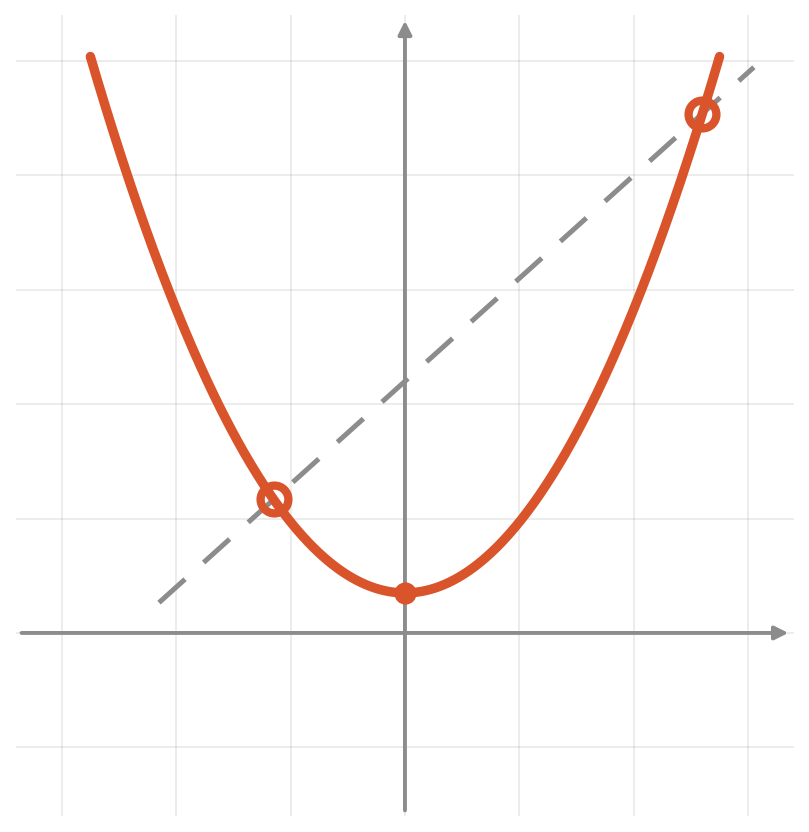
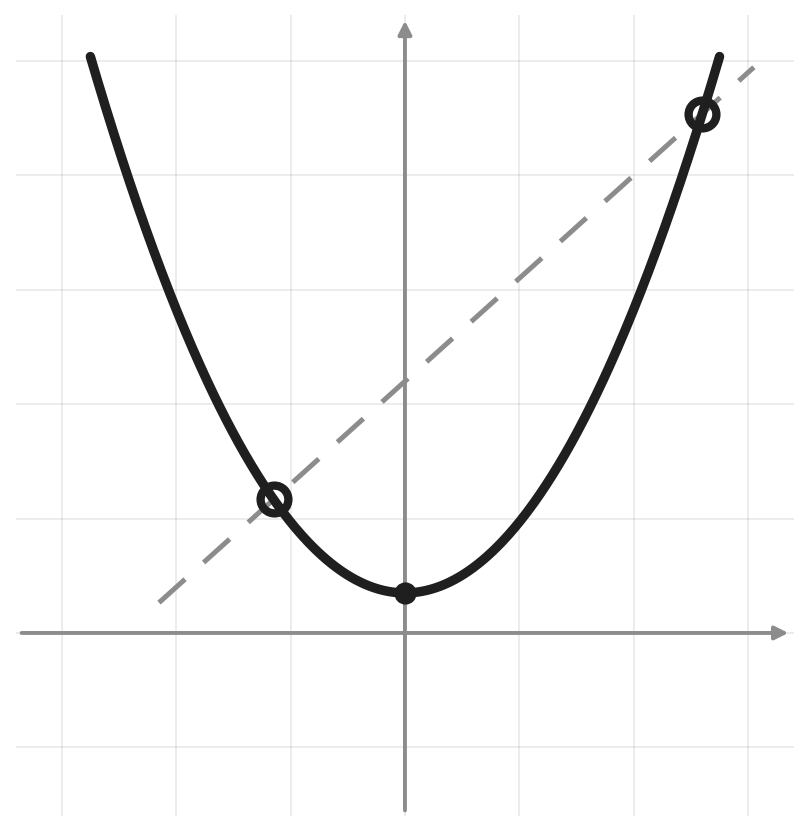
[OC] - Fixing some stuff

diff --git a/scripts/generate-og-card.py b/scripts/generate-og-card.py
@@ -17,9 +17,12 @@ Uses the site's real brand font. @fontsource ships woff/woff2 only, so the
 latin woff (zlib-compressed, unlike woff2's brotli) is converted to a TTF in a
 temp dir at run time. Nothing is written into the repo except the card itself.
 
-The composition deliberately mirrors the homepage hero: wordmark and headline
-on the left, the same parabola figure on the right, vermilion accent, sharp
-corners. A shared link should look like the page it opens.
+Colors and shadow follow DESIGN.md verbatim: single ink, zero blur, offset
+shadows never black. There is no chromatic accent anywhere on the site, so
+none is introduced here either. The composition mirrors the homepage: a
+paper-raised card (the same surface as the table of contents) on the paper
+ground, wordmark and headline on the left, the brand parabola figure on the
+right.
 """
 
 import os
@@ -34,12 +37,22 @@ OUT_DIR = os.path.join(ROOT, "public", "og")
 OUT = os.path.join(OUT_DIR, "agora-og.png")
 
 W, H = 1200, 630
-BG = (244, 244, 244)
-INK = (31, 31, 31)
-MUTED = (90, 90, 90)
-ACCENT = (194, 67, 30)
+
+# DESIGN.md light-theme tokens (see colors: in the frontmatter).
+INK = (31, 31, 31)         # ink / border / accent, all one token
+INK_MUTED = (90, 90, 90)   # ink-muted
+PAPER = (244, 244, 244)    # paper, the page ground
+PAPER_SHADE = (232, 232, 232)   # paper-shade, chips and cards
+PAPER_RAISED = (253, 253, 253)  # paper-raised, the freshest surface
+SHADOW_ALPHA = 0.32        # rgba(31,31,31,0.32), the registration shadow
 
 REQUIRED = set("ÁGORAcademiteásnCu PrimoBhlrES.")
+
+
+def blend(fg, bg, alpha):
+    """Flatten an rgba(ink, alpha) shadow onto a background, since PIL's
+    ImageDraw has no alpha compositing for plain RGB canvases."""
+    return tuple(round(f * alpha + b * (1 - alpha)) for f, b in zip(fg, bg))
 
 
 def load_font(weight: str, size: int, tmp: str) -> ImageFont.FreeTypeFont:
@@ -76,47 +89,57 @@ def main():
     bold = lambda s: load_font("700", s, tmp)
     regular = lambda s: load_font("400", s, tmp)
 
-    card = Image.new("RGB", (W, H), BG)
+    card = Image.new("RGB", (W, H), PAPER)
     d = ImageDraw.Draw(card)
 
-    # Brand signature: the level-tag's vermilion left edge, at card scale.
-    d.rectangle([0, 0, 15, H], fill=ACCENT)
+    # ── Card surface: the same paper-raised + offset-heavy shadow used by
+    # the table of contents, so the social preview reads as a piece of the
+    # actual site rather than a bare background. Offset shadow doubled from
+    # the site's 5px token since this canvas renders at roughly 2x scale.
+    margin, offset, border = 18, 10, 4
+    x0, y0, x1, y1 = margin, margin, W - margin, H - margin
+    d.rectangle([x0 + offset, y0 + offset, x1 + offset, y1 + offset],
+                fill=blend(INK, PAPER, SHADOW_ALPHA))
+    d.rectangle([x0, y0, x1, y1], fill=PAPER_RAISED, outline=INK, width=border)
 
     # ── Figure, right side ────────────────────────────────────────────────
     fig = Image.open(FIGURE).convert("RGBA")
-    fig_h = 384
+    fig_h = 360
     fig_w = round(fig.width * fig_h / fig.height)
     fig = fig.resize((fig_w, fig_h), Image.LANCZOS)
-    fig_x = W - 64 - fig_w
+    fig_x = x1 - 56 - fig_w
     card.paste(fig, (fig_x, (H - fig_h) // 2), fig)
 
-    x = 92
+    x = x0 + 74
     # ── Wordmark ──────────────────────────────────────────────────────────
     f_mark = bold(76)
     mark, track = "ÁGORA", 10
-    y = 132
+    y = 122
     draw_tracked(d, (x, y), mark, f_mark, INK, track)
     mark_w = text_w(d, mark, f_mark, track)
-    d.rectangle([x, y + 104, x + mark_w, y + 110], fill=ACCENT)
+    d.rectangle([x, y + 104, x + mark_w, y + 110], fill=INK)
 
     # ── Headline ──────────────────────────────────────────────────────────
     f_head = bold(44)
     for i, line in enumerate(["Academia de", "matemáticas en Cuenca"]):
-        d.text((x, 288 + i * 60), line, font=f_head, fill=INK)
+        d.text((x, 278 + i * 60), line, font=f_head, fill=INK)
 
-    # ── Level chips, echoing LevelTags ────────────────────────────────────
+    # ── Level chips: DESIGN.md's Chip spec (shaded surface, uniform 2px ink
+    # border, offset-heavy shadow), same three levels as LevelTags.astro.
     f_chip = bold(24)
-    cx, cy, ch = x, 452, 52
+    chip_border, chip_shadow = 3, 8
+    cx, cy, ch = x, 442, 52
     for label in ["Primaria", "E.S.O.", "Bachillerato"]:
         tw = d.textlength(label, font=f_chip)
         cw = tw + 44
-        d.rectangle([cx, cy, cx + cw, cy + ch], outline=INK, width=3)
-        d.rectangle([cx, cy, cx + 6, cy + ch], fill=ACCENT)
-        d.text((cx + 24, cy + ch / 2 - 16), label, font=f_chip, fill=INK)
-        cx += cw + 16
+        d.rectangle([cx + chip_shadow, cy + chip_shadow, cx + cw + chip_shadow, cy + ch + chip_shadow],
+                    fill=blend(INK, PAPER_RAISED, SHADOW_ALPHA))
+        d.rectangle([cx, cy, cx + cw, cy + ch], fill=PAPER_SHADE, outline=INK, width=chip_border)
+        d.text((cx + 22, cy + ch / 2 - 16), label, font=f_chip, fill=INK)
+        cx += cw + 16 + chip_shadow
 
     # ── Domain, quiet, bottom left ────────────────────────────────────────
-    d.text((x, 552), "agoraacademy.es", font=regular(24), fill=MUTED)
+    d.text((x, 546), "agoraacademy.es", font=regular(24), fill=INK_MUTED)
 
     card.save(OUT, optimize=True)
     print(f"saved {OUT} ({card.width}x{card.height}, {os.path.getsize(OUT)//1024} KB)")

diff --git a/scripts/generate-hero-graphic.py b/scripts/generate-hero-graphic.py
@@ -13,11 +13,12 @@ DEPENDENCIES
 
 NOTES
 ------
-Follows the same conventions as generate-math-graphs.py (Agg backend, save to
-public/ejemplos/<folder>/), but uses the site's brand palette instead of the
-teaching palette, and renders on a transparent background so a single file
-reads correctly on both the light and dark themes. Colours are therefore
-picked to hold contrast against #f4f4f4 and #161616 alike.
+Follows the same single-ink convention as generate-math-graphs.py (Agg
+backend, save to public/ejemplos/<folder>/): DESIGN.md's Single Plate Rule
+bans any chromatic hue, so the curve is ink, not a brand color. Renders on a
+transparent background so one file reads correctly on both themes. INK sits
+between the light and dark theme's ink/chalk tokens so the one file works on
+both; NEUTRAL is a mid grey for the reference line and grid.
 """
 
 import os
@@ -29,9 +30,7 @@ import matplotlib.pyplot as plt
 OUT = "public/ejemplos/hero"
 os.makedirs(OUT, exist_ok=True)
 
-# Brand palette. VERMILION sits between the light and dark theme accents so the
-# one file works on both. NEUTRAL is a mid grey that stays legible either way.
-VERMILION = '#d9542a'
+INK = '#1f1f1f'
 NEUTRAL = '#8c8c8c'
 
 fig, ax = plt.subplots(figsize=(6.4, 5.2), dpi=200)
@@ -59,7 +58,7 @@ ax.annotate('', xy=(0, ylim[1]), xytext=(0, ylim[0]),
 
 # The parabola.
 x = np.linspace(-2.75, 2.75, 400)
-ax.plot(x, f(x), color=VERMILION, lw=3.4, solid_capstyle='round', zorder=3)
+ax.plot(x, f(x), color=INK, lw=3.4, solid_capstyle='round', zorder=3)
 
 # A straight line cutting the parabola: the intersection picture students
 # meet as a quadratic system. Two real solutions, both marked.
@@ -74,10 +73,10 @@ ax.plot(lx, g(lx), color=NEUTRAL, lw=1.8, dashes=(7, 5), zorder=2)
 roots = np.roots([0.62, -0.9, -1.85])
 for r in roots:
     ax.plot([r], [g(r)], marker='o', ms=10, mfc='none',
-            mec=VERMILION, mew=3.0, zorder=4)
+            mec=INK, mew=3.0, zorder=4)
 
 # Vertex.
-ax.plot([0], [f(0)], marker='o', ms=7, color=VERMILION, zorder=4)
+ax.plot([0], [f(0)], marker='o', ms=7, color=INK, zorder=4)
 
 ax.set_xlim(*xlim)
 ax.set_ylim(*ylim)
